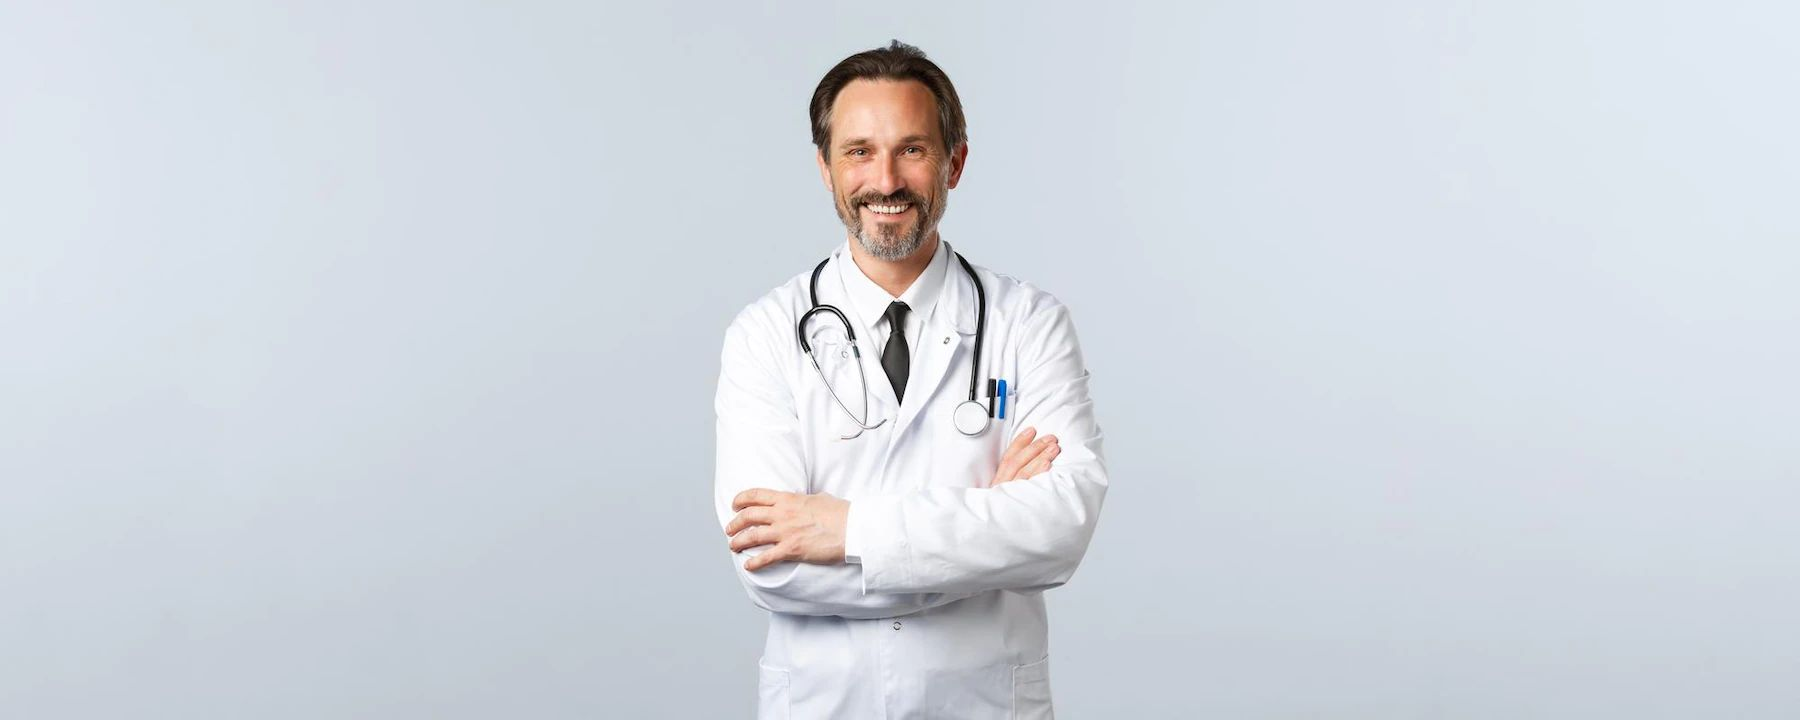
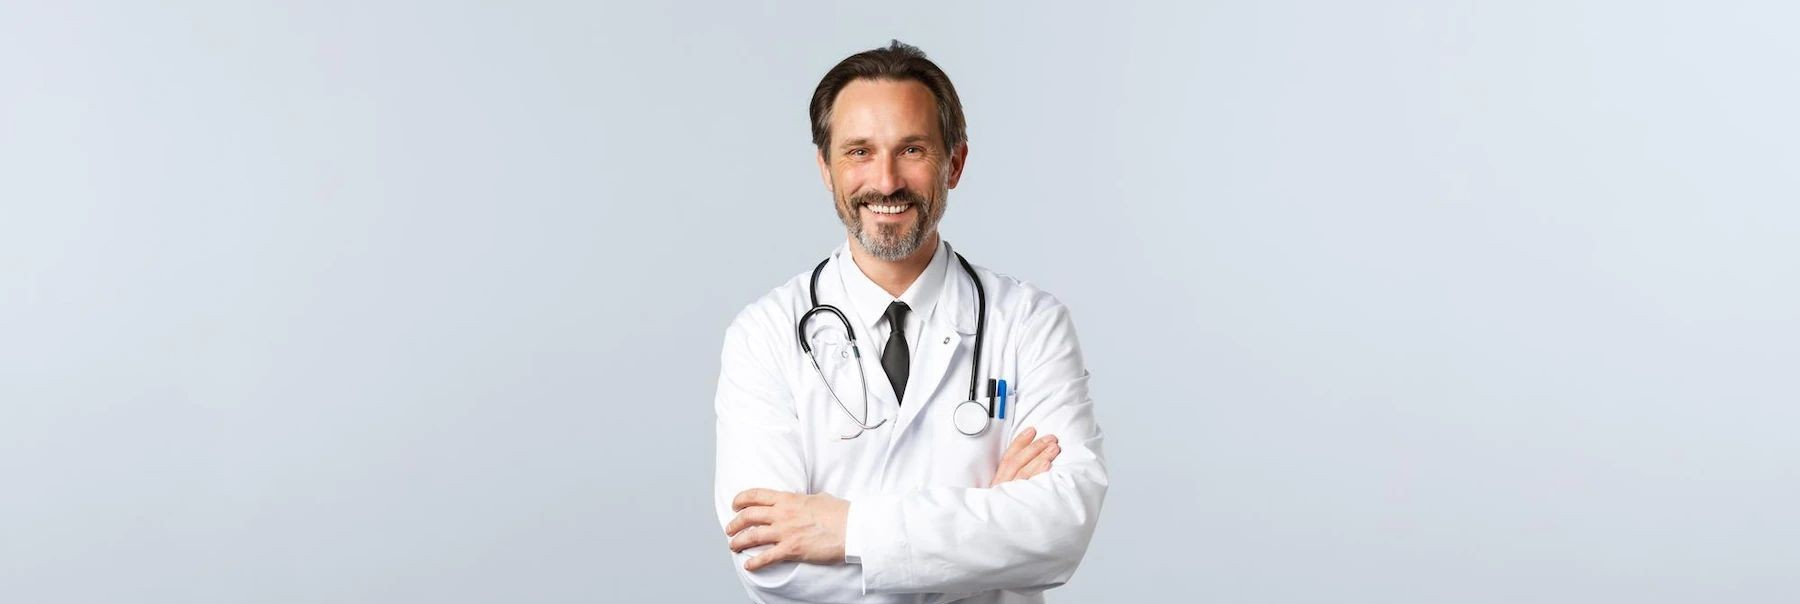
Ajuste de widht e imagens da página

Changed region(s): [[0.3733, 0.0596, 0.6222, 1.0]]

diff --git a/css/style.css b/css/style.css
@@ -50,9 +50,26 @@ body {
     width: 250px;
     height: 100%;
     background-color: rgb(184, 184, 254);
+    /* background-color: black; */
     padding-top: 60px;
     transition: left 0.3s;
     z-index: 1000;
+    box-shadow: 0px 5px 10px rgba(0, 0, 0, 0.466);
+}
+
+.header-menu-mobile{
+    display: flex;
+    padding: 15px;
+    text-align: left;
+    align-items: center;
+    position: fixed;
+    top: 0;
+}
+
+.header-menu-mobile p{
+    font-size: 25px;
+    color: #fff;
+    font-weight: bold;
 }
 
 .side-menu ul {
@@ -62,7 +79,8 @@ body {
 
 .side-menu ul li {
     padding: 20px;
-    text-align: center;
+    text-align: left;
+    border: 1px solid rgba(0, 0, 0, 0.142);
 }
 
 .side-menu ul li a {
@@ -71,6 +89,7 @@ body {
     font-size: 25px;
     font-family: 'Gill Sans', 'Gill Sans MT', Calibri, 'Trebuchet MS', sans-serif;
     transition: transform 2s ease-in-out;
+    font-weight: bold;
 }
 
 .side-menu ul li a:hover {
@@ -103,9 +122,24 @@ body {
     }
 }
 
+@media (min-width: 320px) and (max-width: 768px){
+    
+    .hero-text{
+        padding-top: 0px;
+    }
+    
+    .hero-text h2, p{
+        font-size: 10px;
+    }
+}
+
 /* Seção Principal */
 .hero {
     background-image: url('../imagens/medico.jpg');
+    background-size: cover; /* A imagem cobre toda a área do banner */
+    background-position: center center; /* A imagem sempre estará centralizada */
+    background-repeat: no-repeat; /* A imagem não será repetida */
+    height: 400px; /* Defina uma altura fixa para o banner */
     color: white;
     text-align: center;
     padding: 80px 20px;
@@ -227,8 +261,12 @@ body {
 /* atualizado */
 
 .hero-text{
-    padding-top: 30px;
+    padding-top: 100px;
     height: 300px;
+}
+
+.hero-text h2, p{
+    color: rgba(0, 0, 0, 0.462);
 }
 
 .campos{
@@ -264,9 +302,10 @@ body {
     justify-content: left;
     padding: 10px;
     border-top: 2px solid rgba(0, 0, 0, 0.329);
+    background-color: black;
 }
 .icons-menu-mobile{
     height: 30px;
     margin-left: 10px;
-    opacity: 0.4;
+    opacity: 0.8;
 }

diff --git a/javascript/script.js b/javascript/script.js
@@ -23,3 +23,20 @@ document.getElementById('form-contato').addEventListener('submit', function(even
     // Limpar os campos após o envio
     document.getElementById('form-contato').reset();
 });
+
+// função fechar menu mobile 
+
+const btnFecharMenu = document.getElementById("btn-fechar-menu-moble");
+
+btnFecharMenu.addEventListener("click", ()=>{
+    const menuMobile = document.getElementById("side-menu");
+    menuMobile.style.display = "none"
+})
+
+// Funçãodo whatsapp
+
+const iconWhatsapp = document.getElementById("icon-whatsapp");
+
+iconWhatsapp.addEventListener("click", ()=>{
+    alert("Esta função do Whatsapp esta para ser implementada. Aguarde as próximas atualizaçôes....")
+})

diff --git a/index.html b/index.html
@@ -30,10 +30,13 @@
             <span class="bar"></span>
         </div>
     </header>
-    <img src="imagens/whatsapp.png" alt="icone-whatsapp" class="icon-whatsapp">
+    <img src="imagens/whatsapp.png" alt="icone-whatsapp" class="icon-whatsapp" id="icon-whatsapp">
 
     <!-- Menu Lateral (que ficará oculto em telas grandes) -->
     <div class="side-menu" id="side-menu">
+        <div class="header-menu-mobile">
+            <p id="btn-fechar-menu-moble"> X </p>
+        </div>
         <ul>
             <li><a href="#sobre">Sobre</a></li>
             <li><a href="#servicos">Serviços</a></li>
